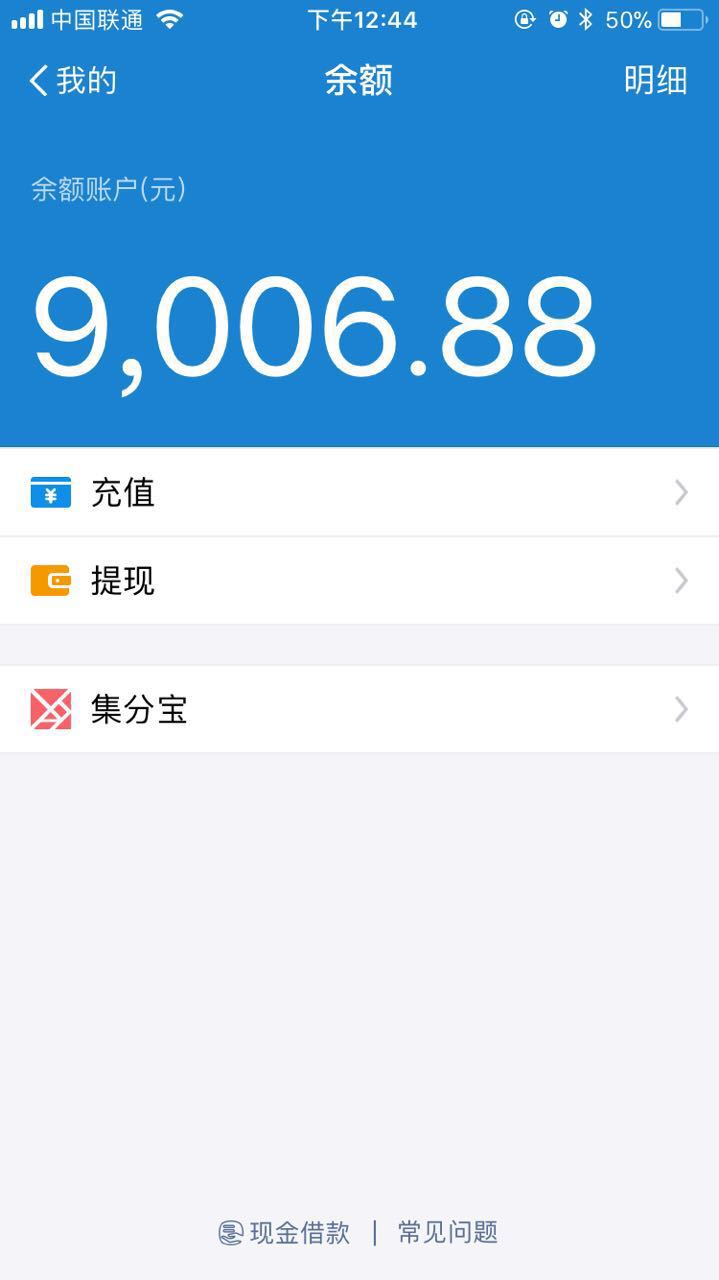
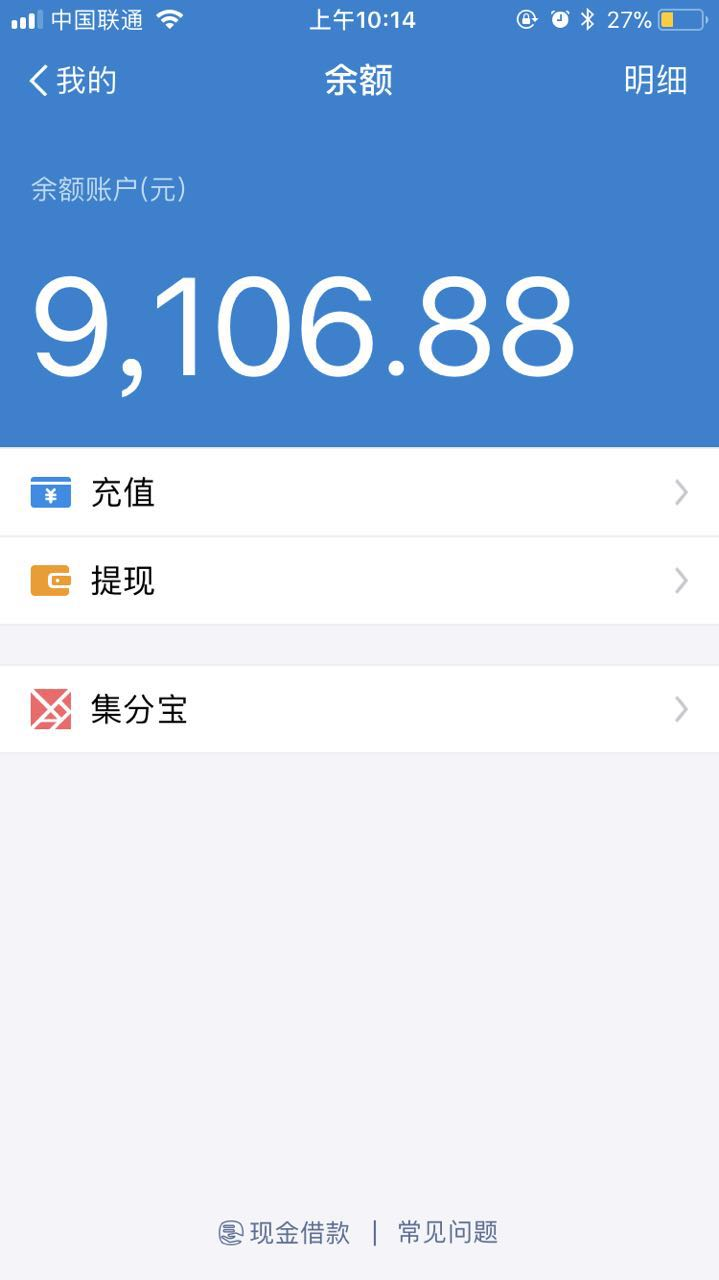
income: TevinLi 100元 20170810 个人赞助 amWiki 轻文库，支持开源事业

diff --git a/README.md b/README.md
@@ -107,6 +107,7 @@ Commit Message 需按照此格式：
 | @SAN  | 666.00 | 2017-08-08 | 开源组织赞助 | [#15](https://github.com/Hangzhou-Node-Party/JS-OpenSource-Foundation/issues/15) |
 | @轻山科技  | 2000.00 | 2017-08-09 | 企业赞助 | [#16](https://github.com/Hangzhou-Node-Party/JS-OpenSource-Foundation/issues/16) |
 | @100offer  | 3000.00 | 2017-08-09 | 企业赞助 | [#17](https://github.com/Hangzhou-Node-Party/JS-OpenSource-Foundation/issues/17) |
+| @TevinLi  | 100.00 | 2017-08-10 | 个人赞助 | [#18](https://github.com/Hangzhou-Node-Party/JS-OpenSource-Foundation/issues/18) |
 
 感谢以下企业的赞助：
 
@@ -137,8 +138,8 @@ Commit Message 需按照此格式：
 <!-- money start -->
 | 款项 | 金额 |
 |------|------|
-| **总额** | 9006.88 元 |
-| **本月收入** | 9006.88 元 |
+| **总额** | 9106.88 元 |
+| **本月收入** | 9106.88 元 |
 | **本月支出** | 0 元 |
 <!-- money end -->
 

diff --git a/INCOMING.md b/INCOMING.md
@@ -13,3 +13,4 @@
 | @SAN  | 666.00 | 2017-08-08 | 开源组织赞助 | https://github.com/ecomfe/echarts |
 | @轻山科技  | 2000.00 | 2017-08-09 | 企业赞助 | 轻山科技 支持杭州 NodeParty 开源基金会为新技术原创技术内容的贡献。 |
 | @100offer  | 3000.00 | 2017-08-09 | 企业赞助 | [100offer官网](https://100offer.com/?utm_source=NodeParty&utm_medium=display&utm_campaign=NodeParty&campaign_code=NodeParty) |
+| @TevinLi  | 100.00 | 2017-08-10 | 个人赞助 | amWiki 轻文库，支持开源事业 |
